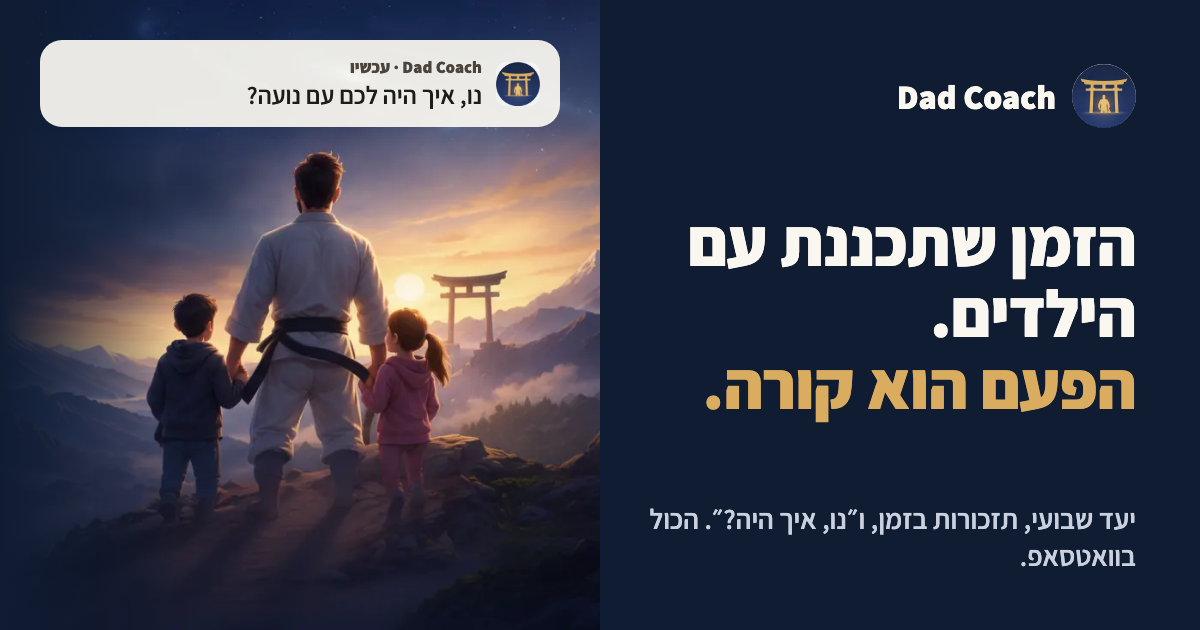
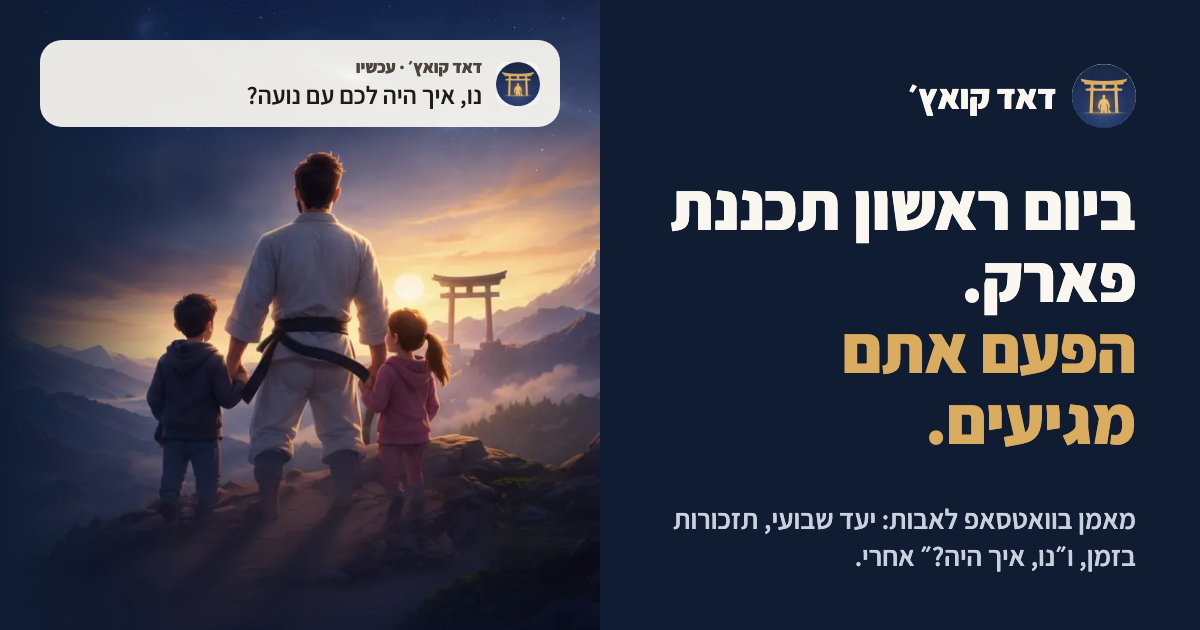
site: OG image with the new headline in Hebrew, fresh screenshots (full page too), README
og-image.png re-rendered from og/og-image.html (brand דאד קואץ׳, 'ביום ראשון תכננת פארק. הפעם אתם
מגיעים.'). screenshots.mjs now walks the page for lazy images, reports console errors, and writes
home-390.png, demo-1440.png and full-{390,1440}.jpg. README: the Hebrew-only rule, the voice and the
page story, honesty notes for the new pieces.

diff --git a/site/og/og-image.html b/site/og/og-image.html
@@ -5,7 +5,7 @@
   html, body { margin: 0; width: 1200px; height: 630px; overflow: hidden; }
   body { font-family: 'Assistant', Arial, sans-serif; background: #101C32; color: #FAF7F1; display: grid; grid-template-columns: 600px 600px; }
   .copy { padding: 64px 64px 56px 40px; display: flex; flex-direction: column; justify-content: space-between; }
-  .brand { display: flex; align-items: center; gap: 16px; font-size: 34px; font-weight: 800; direction: ltr; justify-content: flex-end; }
+  .brand { display: flex; align-items: center; gap: 16px; font-size: 34px; font-weight: 800; }
   .brand img { width: 64px; height: 64px; border-radius: 50%; }
   h1 { margin: 0; font-size: 66px; line-height: 1.08; font-weight: 800; }
   h1 span { color: #DAAC5F; display: block; }
@@ -18,9 +18,9 @@
 </style></head>
 <body>
   <div class="copy">
-    <div class="brand"><span>Dad Coach</span><img src="../public/img/logo-mark.webp" alt=""></div>
-    <h1>הזמן שתכננת עם הילדים. <span>הפעם הוא קורה.</span></h1>
-    <p>יעד שבועי, תזכורות בזמן, ו״נו, איך היה?״. הכול בוואטסאפ.</p>
+    <div class="brand"><img src="../public/img/logo-mark.webp" alt=""><span>דאד קואץ׳</span></div>
+    <h1>ביום ראשון תכננת פארק. <span>הפעם אתם מגיעים.</span></h1>
+    <p>מאמן בוואטסאפ לאבות: יעד שבועי, תזכורות בזמן, ו״נו, איך היה?״ אחרי.</p>
   </div>
-  <div class="art"><div class="notif"><img src="../public/img/logo-mark.webp" alt=""><div><b>Dad Coach · עכשיו</b>נו, איך היה לכם עם נועה?</div></div></div>
+  <div class="art"><div class="notif"><img src="../public/img/logo-mark.webp" alt=""><div><b>דאד קואץ׳ · עכשיו</b>נו, איך היה לכם עם נועה?</div></div></div>
 </body></html>

diff --git a/site/README.md b/site/README.md
@@ -5,6 +5,23 @@ framework. Reference implementation: `~/repos/tair/site` (same structure, same q
 design rules come from `dad-coach-web/docs/brand` and `docs/design`; tokens live in
 `src/styles/tokens.css`. Light page with navy bands, address the father in the masculine singular.
 
+**Everything visible is Hebrew.** The brand is written **דאד קואץ׳** (Hebrew geresh ׳, U+05F3), never
+"Dad Coach", in headings, buttons, the demo phone, alt texts, meta tags, the OG image, the footer and the
+legal pages. Latin stays only where it is a name or a command: vendor names in the privacy table (Meta,
+Render, Supabase, Google Fonts), standards and screen readers in the accessibility statement, and the
+deletion command `DELETE MY DATA` (the backend only knows the English phrase; the FAQ says so).
+
+**Voice: impressive and humorous** (owner, 2026-10-07). The jokes are fathers recognizing themselves,
+never mocking the father or the kids, never guilt. Humor lives in the headlines and around the demo; the
+coach's own bubbles stay the real product lines. Page story: the hero ("ביום ראשון תכננת פארק. ביום חמישי
+זה כבר היה ״שבוע הבא״.") with the signature *week story* card (`src/story.js`: the plan hops to
+"tomorrow" until it lands on "שבוע הבא", then the same week with Dad Coach), the excuse graveyard
+(`src/excuses.js`, sticky notes that flip to what the product really does), the demo, how it works,
+capabilities, the covered week ("זה לא באג, זה פיצ׳ר."), the notifications he never gets, the belts as
+a dojo with a pace switch (`src/belts.js`, plain arithmetic on the real thresholds, labeled as such), the
+personal page, FAQ (two "שאלה כמעט רצינית"), and the final callback ("הפארק עדיין שם. הפעם אתם מגיעים.").
+Every motion respects `prefers-reduced-motion` and `?demo=static` (the HTML is the final state).
+
 ## Build and preview
 
 ```sh
@@ -14,7 +31,8 @@ npm run build        # → site/dist/ (static, deploy as-is)
 npm run preview      # serves dist on http://localhost:4175
 npm run dev          # live reload while editing
 npm run images       # re-render og-image.png, apple-touch-icon.png, favicon.png (headless Chrome) + the WhatsApp QR
-npm run screenshots  # Playwright screenshots into screenshots/ (needs `npm run preview` running)
+                     # (the OG headline is the hero's: "ביום ראשון תכננת פארק. הפעם אתם מגיעים.")
+npm run screenshots  # Playwright: screenshots/home-390.png, demo-1440.png, full-{390,1440}.jpg (needs `npm run preview` running)
 python3 scripts/intro_voice.py   # (from the repo root) re-record the hero voice intro, prints the caption timings
 ```
 
@@ -39,7 +57,8 @@ devices (there the wa.me link is the whole flow).
 ## The demo
 
 `src/demo/scenarios.js` mirrors `../marketing/whatsapp-demo-flow.md` line for line (edit the doc
-first). The coach lines are **drafts from the workflow rules**; replace them with real qa-lab lines
+first). Every coach bubble and lock-screen notification opens with the product's identity line
+`❤ דאד קואץ׳:` (`COACH_LINE`), and the phone's contact name is דאד קואץ׳. The coach lines are **drafts from the workflow rules**; replace them with real qa-lab lines
 before launch (checklist at the end of the doc). `src/demo/player.js` is deterministic: typing
 indicator, proactive messages shown first as a lock-screen notification, a "השבוע שלך" card that
 follows the week, pause/skip/replay, pauses when scrolled away or the tab is hidden.
@@ -49,7 +68,8 @@ follows the week, pause/skip/replay, pauses when scrolled away or the tab is hid
 
 `src/intro.js`: the coach's avatar (the dashboard's `coach-avatar` artwork) + a 20-second Hebrew male
 voice (ElevenLabs, voice "amit", script in `scripts/intro_voice.py`) with live captions. Plays only on
-tap. `?coach=off` hides it, to compare the hero with and without it. Note: the brand's
+tap. `?coach=off` hides it, to compare the hero with and without it. The captions say דאד קואץ׳; the
+recording says the name out loud, which sounds the same in Hebrew, so the mp3 is unchanged. Note: the brand's
 ILLUSTRATION_STYLE says "no character mascots"; the dashboard already uses this character, so it is
 used here as a measured, removable experiment.
 
@@ -71,7 +91,10 @@ used here as a measured, removable experiment.
 No testimonials, logos, ratings, user counts or invented statistics. The demo says "שיחה מתוסרטת
 להמחשה … לדוגמה", the week card and the weekly summary carry a "דוגמה" badge, the footer repeats it.
 Belt thresholds are the real ones (`workflow/Belt.java`), timer times are the real policy
-(`SessionTimerPlanner`: 08:00 on the day, 1 hour before, 30 minutes after the end).
+(`SessionTimerPlanner`: 08:00 on the day, 1 hour before, 30 minutes after the end). The hero's week story
+carries a "דוגמה" badge and uses the demo's own coach lines; the dojo's "שבוע N" is labeled as arithmetic,
+not a promise; the struck-through notifications are invented on purpose (they are what he never gets).
+No testimonials, no stats, no price beyond the launch wording.
 
 ## Slots for real product screenshots
 
@@ -85,7 +108,8 @@ real data with permission).
 site/
   index.html                       landing page
   privacy/ terms/ data-deletion/ accessibility/   legal pages (index.html each)
-  src/main.js                      reveal, demo, signup form, intro
+  src/main.js                      reveal, demo, signup form, intro, story, excuses, belt pace
+  src/story.js, excuses.js, belts.js   the hero's week story, the excuse notes, the dojo's pace switch
   src/config.js                    the configuration above
   src/signup-form.js               validation, phone normalization, submit (honeypot, 10 s timeout)
   src/intro.js                     the coach's voice intro + captions
@@ -96,9 +120,13 @@ site/
                                    dad-coach-intro.mp3, img/ (logo, belts, hero, coach, QR)
   og/                              HTML sources of the rendered PNGs
   scripts/                         render-images.sh, intro_voice.py, screenshots.mjs
-  screenshots/                     home/demo at 390 and 1440 px (for the hub page)
+  screenshots/                     home-390, demo-1440, full-page 390/1440 (for the hub page)
   render.yaml                      the Render static service (Blueprint path site/render.yaml)
 ```
+
+Images: hero.webp (now the final call to action), coach.webp (intro), belts/, and two dashboard
+illustrations copied from `frontend/public/img` (coach-thinking: the excuses; mission-quality-time: how it
+works). All lazy except the first screen, which has no image: the LCP is the headline.
 
 Quality notes: one layout breakpoint (760px) plus a 1080px grid step, logical CSS properties,
 no horizontal scroll at 390px (checked by `npm run screenshots`), visible focus ring, skip link,
